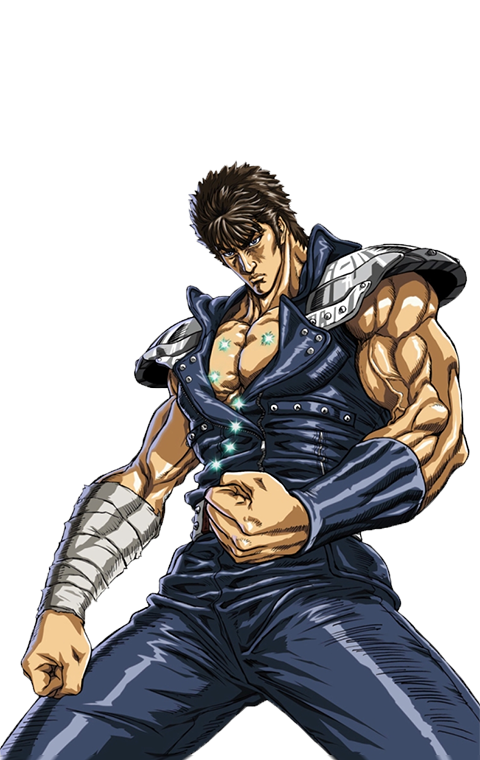
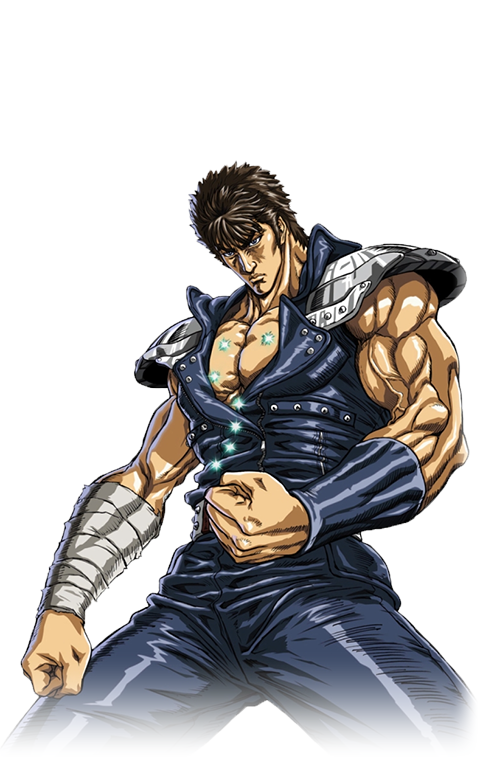
layouts | Sammy Atomiswave 마스코트 무릎 절단선을 알파 페이드로 해소 (ISSUES 38)
켄시로 컷아웃은 y=756(캔버스 끝 4px 위)에서 수평으로 끝나고 오른팔도 오른쪽 변에서 잘렸다
(최외곽 불투명 행이 피사체 폭의 72%). 2022년부터 있던 것으로, 4차 재점검이 새 직선 컷 검사를
기존 19종에 돌려서 나왔다. NEVATO 캔버스 바닥은 1080p 에서 화면 바닥보다 151px 위라 보일 수 있다.

fightersgeneration 의 켄시로 원화 10장 중 전신은 저해상도 3D 렌더(274x600) 하나뿐이라
현재 2D 원화를 유지하고 fade-edge.ps1 -Bottom 110 -Right 28 로 페이드시켰다.

재측정: 직선 컷 72% -> 6%, 투명 51.5 -> 53.2%, 가장자리 83.2 -> 99.6%. 양쪽 레이아웃 동일.

Claude-Session: https://claude.ai/code/session_01XQPXNEC6mT15ACeWHcAzWx

diff --git a/docs/ISSUES.md b/docs/ISSUES.md
@@ -771,7 +771,10 @@ NXL HD 한글 리터럴을 실제 그리는 폰트와 대조해 빠진 글리프
 나머지 19종이 전부 단일 캐릭터 전신 컷아웃이라 이것만 "포스터에서 오려낸 조각"으로 읽히고, NEVATO 가 캔버스를 y = 0.156·화면높이에 그리므로 절단선이 화면 중간에 뜬다.
 아케이드 뮤지엄의 갈스 패닉 전단 7장(무인·II 2종·4·S 앞뒤·S2)을 전부 받아 봤지만 단일 인물은 문구·말풍선이 겹치거나 사진 배경이라 깨끗한 컷아웃이 안 나온다.
 
-### - [ ] 38. Sammy Atomiswave 마스코트 — 무릎에서 잘려 캔버스 바닥에 닿아 있다 (2022년부터)
+### - [x] 38. Sammy Atomiswave 마스코트 — 무릎에서 잘려 캔버스 바닥에 닿아 있다 (2022년부터) — **처리 완료**
+
+**조치 (2026-09-04)**: 2D 원화를 유지하고 `fade-edge.ps1 -Bottom 110 -Right 28` 로 무릎 아래 110px 와 오른쪽 변 28px 를 알파 페이드시켰다.
+재측정: 직선 컷 **72% → 6%**, 투명 51.5 → 53.2%, 가장자리 83.2 → 99.6%(19종 최저였던 값이 평균 수준으로). NEVATO·Console Box 양쪽 동일.
 
 같은 잣대로 **72%** (y=756, 캔버스 끝 4px 위). 오른팔도 오른쪽 변에서 10% 잘린다. 가장자리 투명율이 19종 중 최저(83.2%)였던 이유다.
 `layout.nut:762` 가 캔버스를 `0.15625*flh` 에 480×760 고정 크기로 그리므로 1080p 에서 캔버스 바닥은 화면 바닥보다 151px 위 — 절단선이 보일 수 있다.
